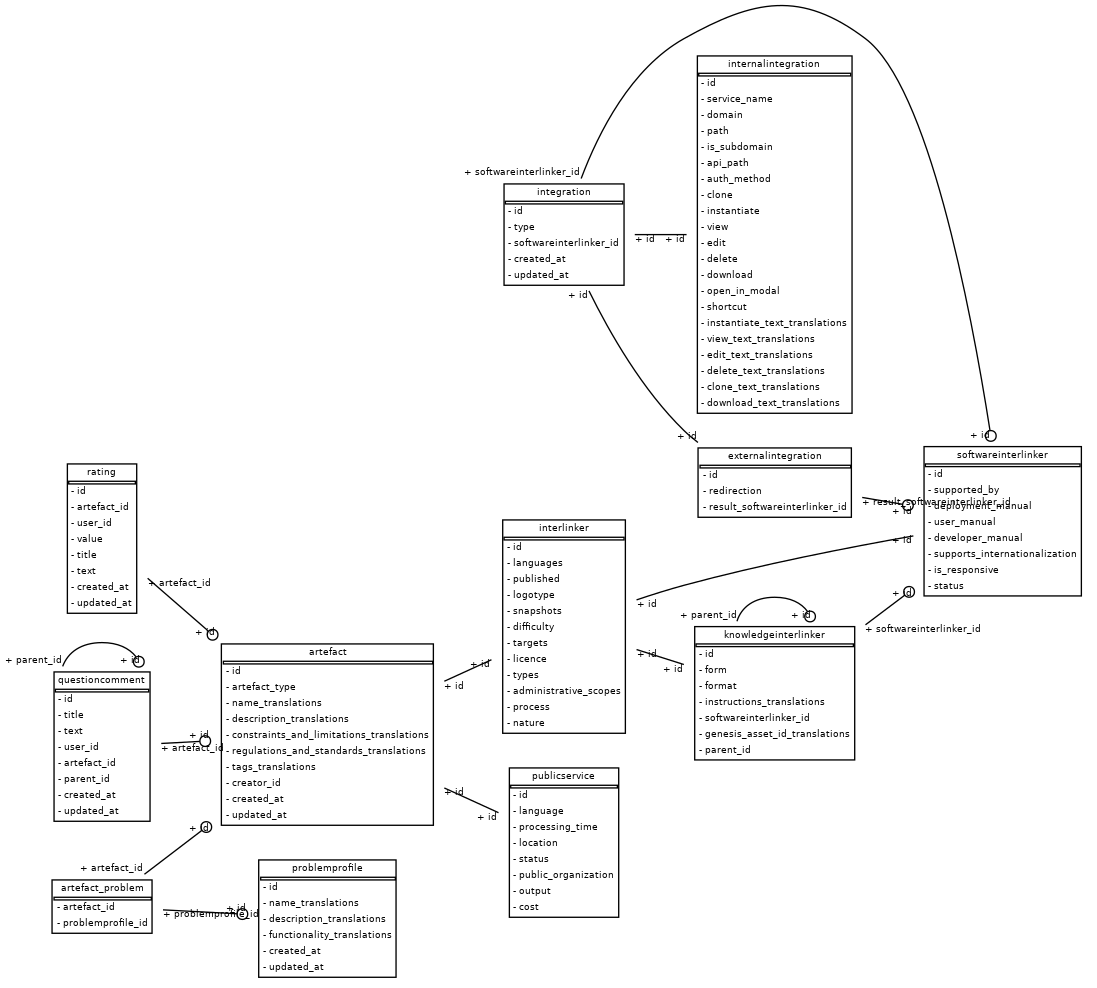
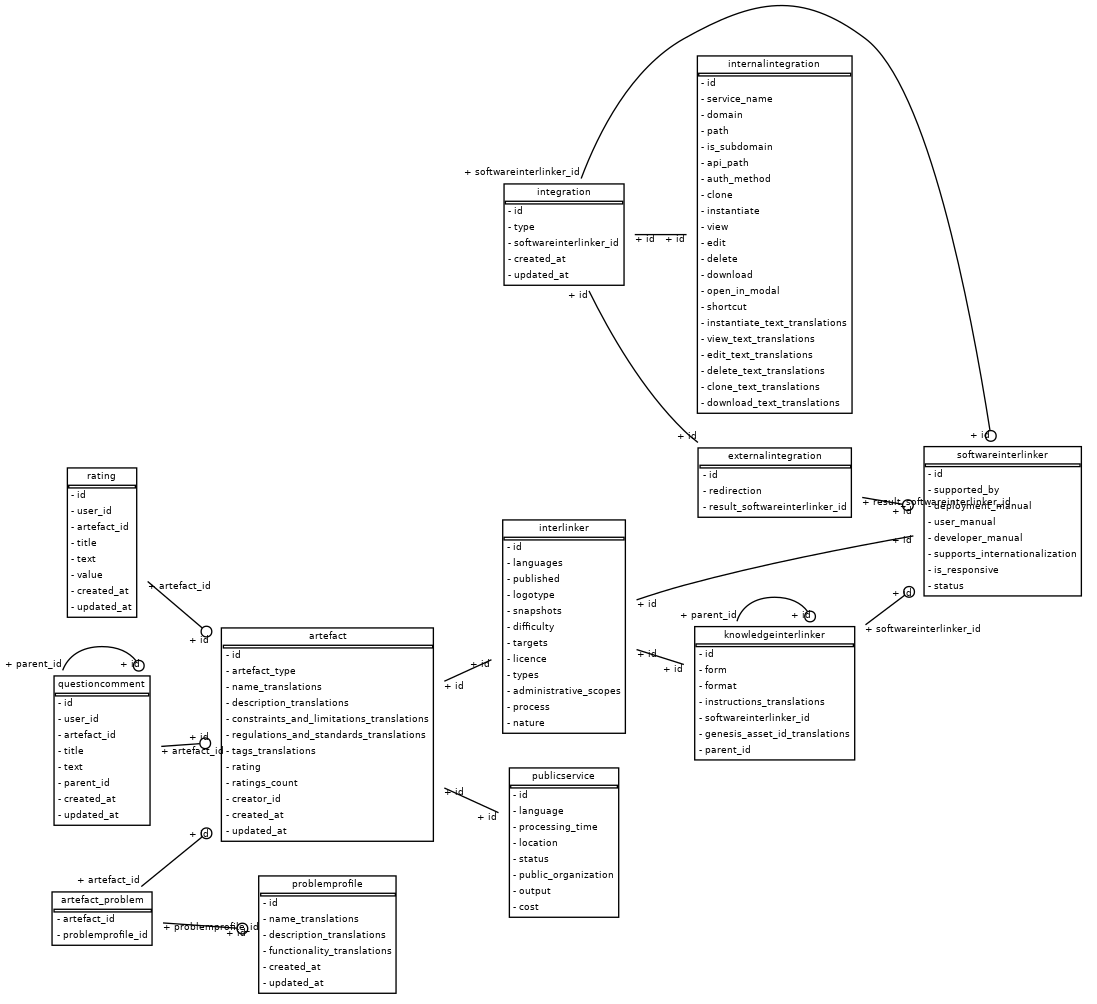
Ratings

diff --git a/catalogue/app/api/api_v1/interlinkers.py b/catalogue/app/api/api_v1/interlinkers.py
@@ -16,6 +16,7 @@ router = APIRouter()
 @router.get("", response_model=Page[schemas.InterlinkerOut])
 def list_interlinkers(
     nature: Optional[List[str]] = Query(None),
+    rating: Optional[int] = Query(None),
     creator: Optional[List[str]] = Query(None),
     search: Optional[str] = Query(None),
     db: Session = Depends(deps.get_db),
@@ -25,7 +26,7 @@ def list_interlinkers(
     Retrieve interlinkers.
     """
     print("FILTER", nature, creator, search)
-    return crud.interlinker.get_multi(db, search=search, natures=nature, creator=creator)
+    return crud.interlinker.get_multi(db, search=search, rating=rating, natures=nature, creator=creator)
 
 
 @router.post("/by_problem_profiles", response_model=Page[schemas.InterlinkerOut])
@@ -146,19 +147,3 @@ def related_interlinkers(
     if not crud.interlinker.can_read(current_user, interlinker):
         raise HTTPException(status_code=403, detail="Not enough permissions")
     return crud.interlinker.get_by_problem_profiles(db=db, exclude=[interlinker.id], problem_profiles=[pr.id for pr in interlinker.problemprofiles])
-
-@router.get("/{id}/ratings", response_model=List[schemas.RatingOut])
-def interlinker_ratings(
-    id: uuid.UUID,
-    db: Session = Depends(deps.get_db),
-    current_user: Optional[dict] = Depends(deps.get_current_user),
-) -> Any:
-    """
-    Get ratings of an interlinker
-    """
-    interlinker = crud.interlinker.get(db=db, id=id)
-    if not interlinker:
-        raise HTTPException(status_code=404, detail="Interlinker not found")
-    if not crud.interlinker.can_read(current_user, interlinker):
-        raise HTTPException(status_code=403, detail="Not enough permissions")
-    return interlinker.ratings

diff --git a/catalogue/app/ratings/schemas.py b/catalogue/app/ratings/schemas.py
@@ -2,14 +2,17 @@ import uuid
 from datetime import datetime
 from typing import List, Optional
 from app.general.utils.AllOptional import AllOptional
-from pydantic import BaseModel, validator
+from pydantic import BaseModel, validator, root_validator
 from pydantic.typing import ForwardRef
-
+from app.questioncomments.schemas import QuestionCommentOut
+import requests
+from app.config import settings
 
 class RatingBase(BaseModel):
+    value: int
+    artefact_id: uuid.UUID
     title: Optional[str]
     text: str
-    value: int
 
     @validator('value')
     def value_not_greater_than_5(cls, v):
@@ -18,7 +21,7 @@ class RatingBase(BaseModel):
         return v
 
 class RatingCreate(RatingBase):
-    artefact_id: uuid.UUID
+    pass
 
 
 class RatingPatch(RatingCreate, metaclass=AllOptional):
@@ -37,4 +40,17 @@ class Rating(RatingBase):
 
 
 class RatingOut(Rating):
-    pass
+    user: Optional[dict]
+
+    @root_validator(pre=True)
+    def get_user_data_from_auth_microservice(cls, values):
+        id = values["user_id"]
+        try:
+            newValues = {**values}
+            response = requests.get(f"http://{settings.AUTH_SERVICE}/auth/api/v1/users/{id}", headers={
+                "X-API-Key": "secret"
+            }).json()
+            newValues["user"] = response
+            return newValues
+        except:
+            return values

diff --git a/catalogue/app/artefacts/models.py b/catalogue/app/artefacts/models.py
@@ -8,6 +8,7 @@ from sqlalchemy import (
     DateTime,
     ForeignKey,
     Integer,
+    Numeric,
     String,
     Table,
     Text,
@@ -21,6 +22,9 @@ from app.tables import artefact_problem_association_table
 from app.translations import translation_hybrid
 from sqlalchemy.ext.hybrid import hybrid_property
 from sqlalchemy import func
+from sqlalchemy_utils import aggregated
+
+from app.ratings.models import Rating
 
 
 class Artefact(BaseModel):
@@ -44,6 +48,16 @@ class Artefact(BaseModel):
         secondary=artefact_problem_association_table,
         back_populates="artefacts",
     )
+
+    # 1 digit for decimals
+    @aggregated('ratings', Column(Numeric(2, 1), default=0))
+    def rating(self):
+        return func.avg(Rating.value)
+    
+    @aggregated('ratings', Column(Integer, default=0))
+    def ratings_count(self):
+        return func.count('1')
+
     ratings = relationship("Rating", back_populates="artefact")
     questioncomments = relationship("QuestionComment", back_populates="artefact")
 

diff --git a/catalogue/app/api/api_v1/rating.py b/catalogue/app/api/api_v1/rating.py
@@ -1,14 +1,28 @@
 import uuid
 from typing import Any, List, Optional
 
-from fastapi import APIRouter, Depends, HTTPException
+from fastapi import APIRouter, Depends, HTTPException, Query
 from sqlalchemy.orm import Session
 
 from app import crud, models, schemas
 from app.exceptions import CrudException
 from app.general import deps
+from fastapi_pagination import Page
 
 router = APIRouter()
+
+@router.get("", response_model=Page[schemas.RatingOut])
+def list_ratings(
+    db: Session = Depends(deps.get_db),
+    current_user: Optional[dict] = Depends(deps.get_current_user),
+    artefact_id: uuid.UUID = Query(None),
+) -> Any:
+    """
+    Retrieve ratings.
+    """
+    if not crud.rating.can_list(current_user):
+        raise HTTPException(status_code=403, detail="Not enough permissions")
+    return crud.rating.get_multi_by_artefact(db, artefact_id=artefact_id)
 
 @router.post("", response_model=schemas.RatingOut)
 def create_rating(

diff --git a/catalogue/app/ratings/crud.py b/catalogue/app/ratings/crud.py
@@ -8,16 +8,16 @@ from sqlalchemy.orm import Session
 from app.models import Rating
 from app.schemas import RatingCreate, RatingPatch
 from app.general.utils.CRUDBase import CRUDBase
+from fastapi_pagination.ext.sqlalchemy import paginate
 
 
 class CRUDRating(CRUDBase[Rating, RatingCreate, RatingPatch]):
     def get_multi_by_artefact(
-        self, db: Session, *, artefact_id: uuid.UUID,
+        self, db: Session, artefact_id: uuid.UUID,
     ) -> List[Rating]:
-        return (
+        return paginate(
             db.query(self.model)
             .filter(Rating.artefact_id == artefact_id)
-            .all()
         )
 
     def create(self, db: Session, user_id: str, rating: RatingCreate) -> Rating:

diff --git a/catalogue/app/questioncomments/models.py b/catalogue/app/questioncomments/models.py
@@ -19,15 +19,14 @@ from sqlalchemy.orm import backref, relationship
 
 class QuestionComment(BaseModel):
     id = Column(UUID(as_uuid=True), primary_key=True, default=uuid.uuid4)
-
-    title = Column(String, nullable=True)
-    text = Column(Text)
-
     user_id = Column(String)
 
     artefact_id = Column(UUID(as_uuid=True), ForeignKey("artefact.id"))
     artefact = relationship("Artefact", back_populates="questioncomments")
 
+    title = Column(String, nullable=True)
+    text = Column(Text)
+    
     parent_id = Column(UUID(as_uuid=True), ForeignKey("questioncomment.id"))
     children = relationship(
         "QuestionComment", backref=backref("parent", remote_side=[id])

diff --git a/catalogue/app/interlinkers/crud.py b/catalogue/app/interlinkers/crud.py
@@ -75,9 +75,13 @@ class CRUDInterlinker(CRUDBase[Interlinker, InterlinkerCreate, InterlinkerPatch]
         return db_obj
 
     def get_multi(
-        self, db: Session, search: str = "", natures: list = [], creator: list = [], language: str = "en"
+        self, db: Session, search: str = "", natures: list = [], rating: int = 0, creator: list = [], language: str = "en"
     ) -> List[Interlinker]:
         queries = []
+
+        if rating:
+            queries.append(Interlinker.rating >= rating)
+            
         if search:
             search = search.lower()
             queries.append(or_(

diff --git a/catalogue/app/ratings/models.py b/catalogue/app/ratings/models.py
@@ -19,10 +19,11 @@ from sqlalchemy.orm import relationship
 
 class Rating(BaseModel):
     id = Column(UUID(as_uuid=True), primary_key=True, default=uuid.uuid4)
-
+    user_id = Column(String)
+    
     artefact_id = Column(UUID(as_uuid=True), ForeignKey("artefact.id"))
     artefact = relationship("Artefact", back_populates="ratings")
-    user_id = Column(String)
-    value = Column(Integer)
+    
     title = Column(String, nullable=True)
     text = Column(Text)
+    value = Column(Integer)

diff --git a/catalogue/app/config.py b/catalogue/app/config.py
@@ -28,6 +28,11 @@ class Settings(BaseSettings):
     POSTGRES_DB: str
     SQLALCHEMY_DATABASE_URI: Optional[PostgresDsn] = None
 
+    # OTHER MICROS
+    AUTH_SERVICE_NAME: str = "auth"
+    AUTH_PORT: int = 80
+    AUTH_SERVICE: str = "auth:80"
+    
     @validator("SQLALCHEMY_DATABASE_URI", pre=True)
     def assemble_db_connection(cls, v: Optional[str], values: Dict[str, Any]) -> Any:
         if isinstance(v, str):

diff --git a/catalogue/app/artefacts/schemas.py b/catalogue/app/artefacts/schemas.py
@@ -33,6 +33,9 @@ class ArtefactORM(ArtefactBase):
     constraints_and_limitations: Optional[str]
     regulations_and_standards: Optional[str]
 
+    rating: Optional[float]
+    ratings_count: Optional[int]
+    
     class Config:
         orm_mode = True
 
